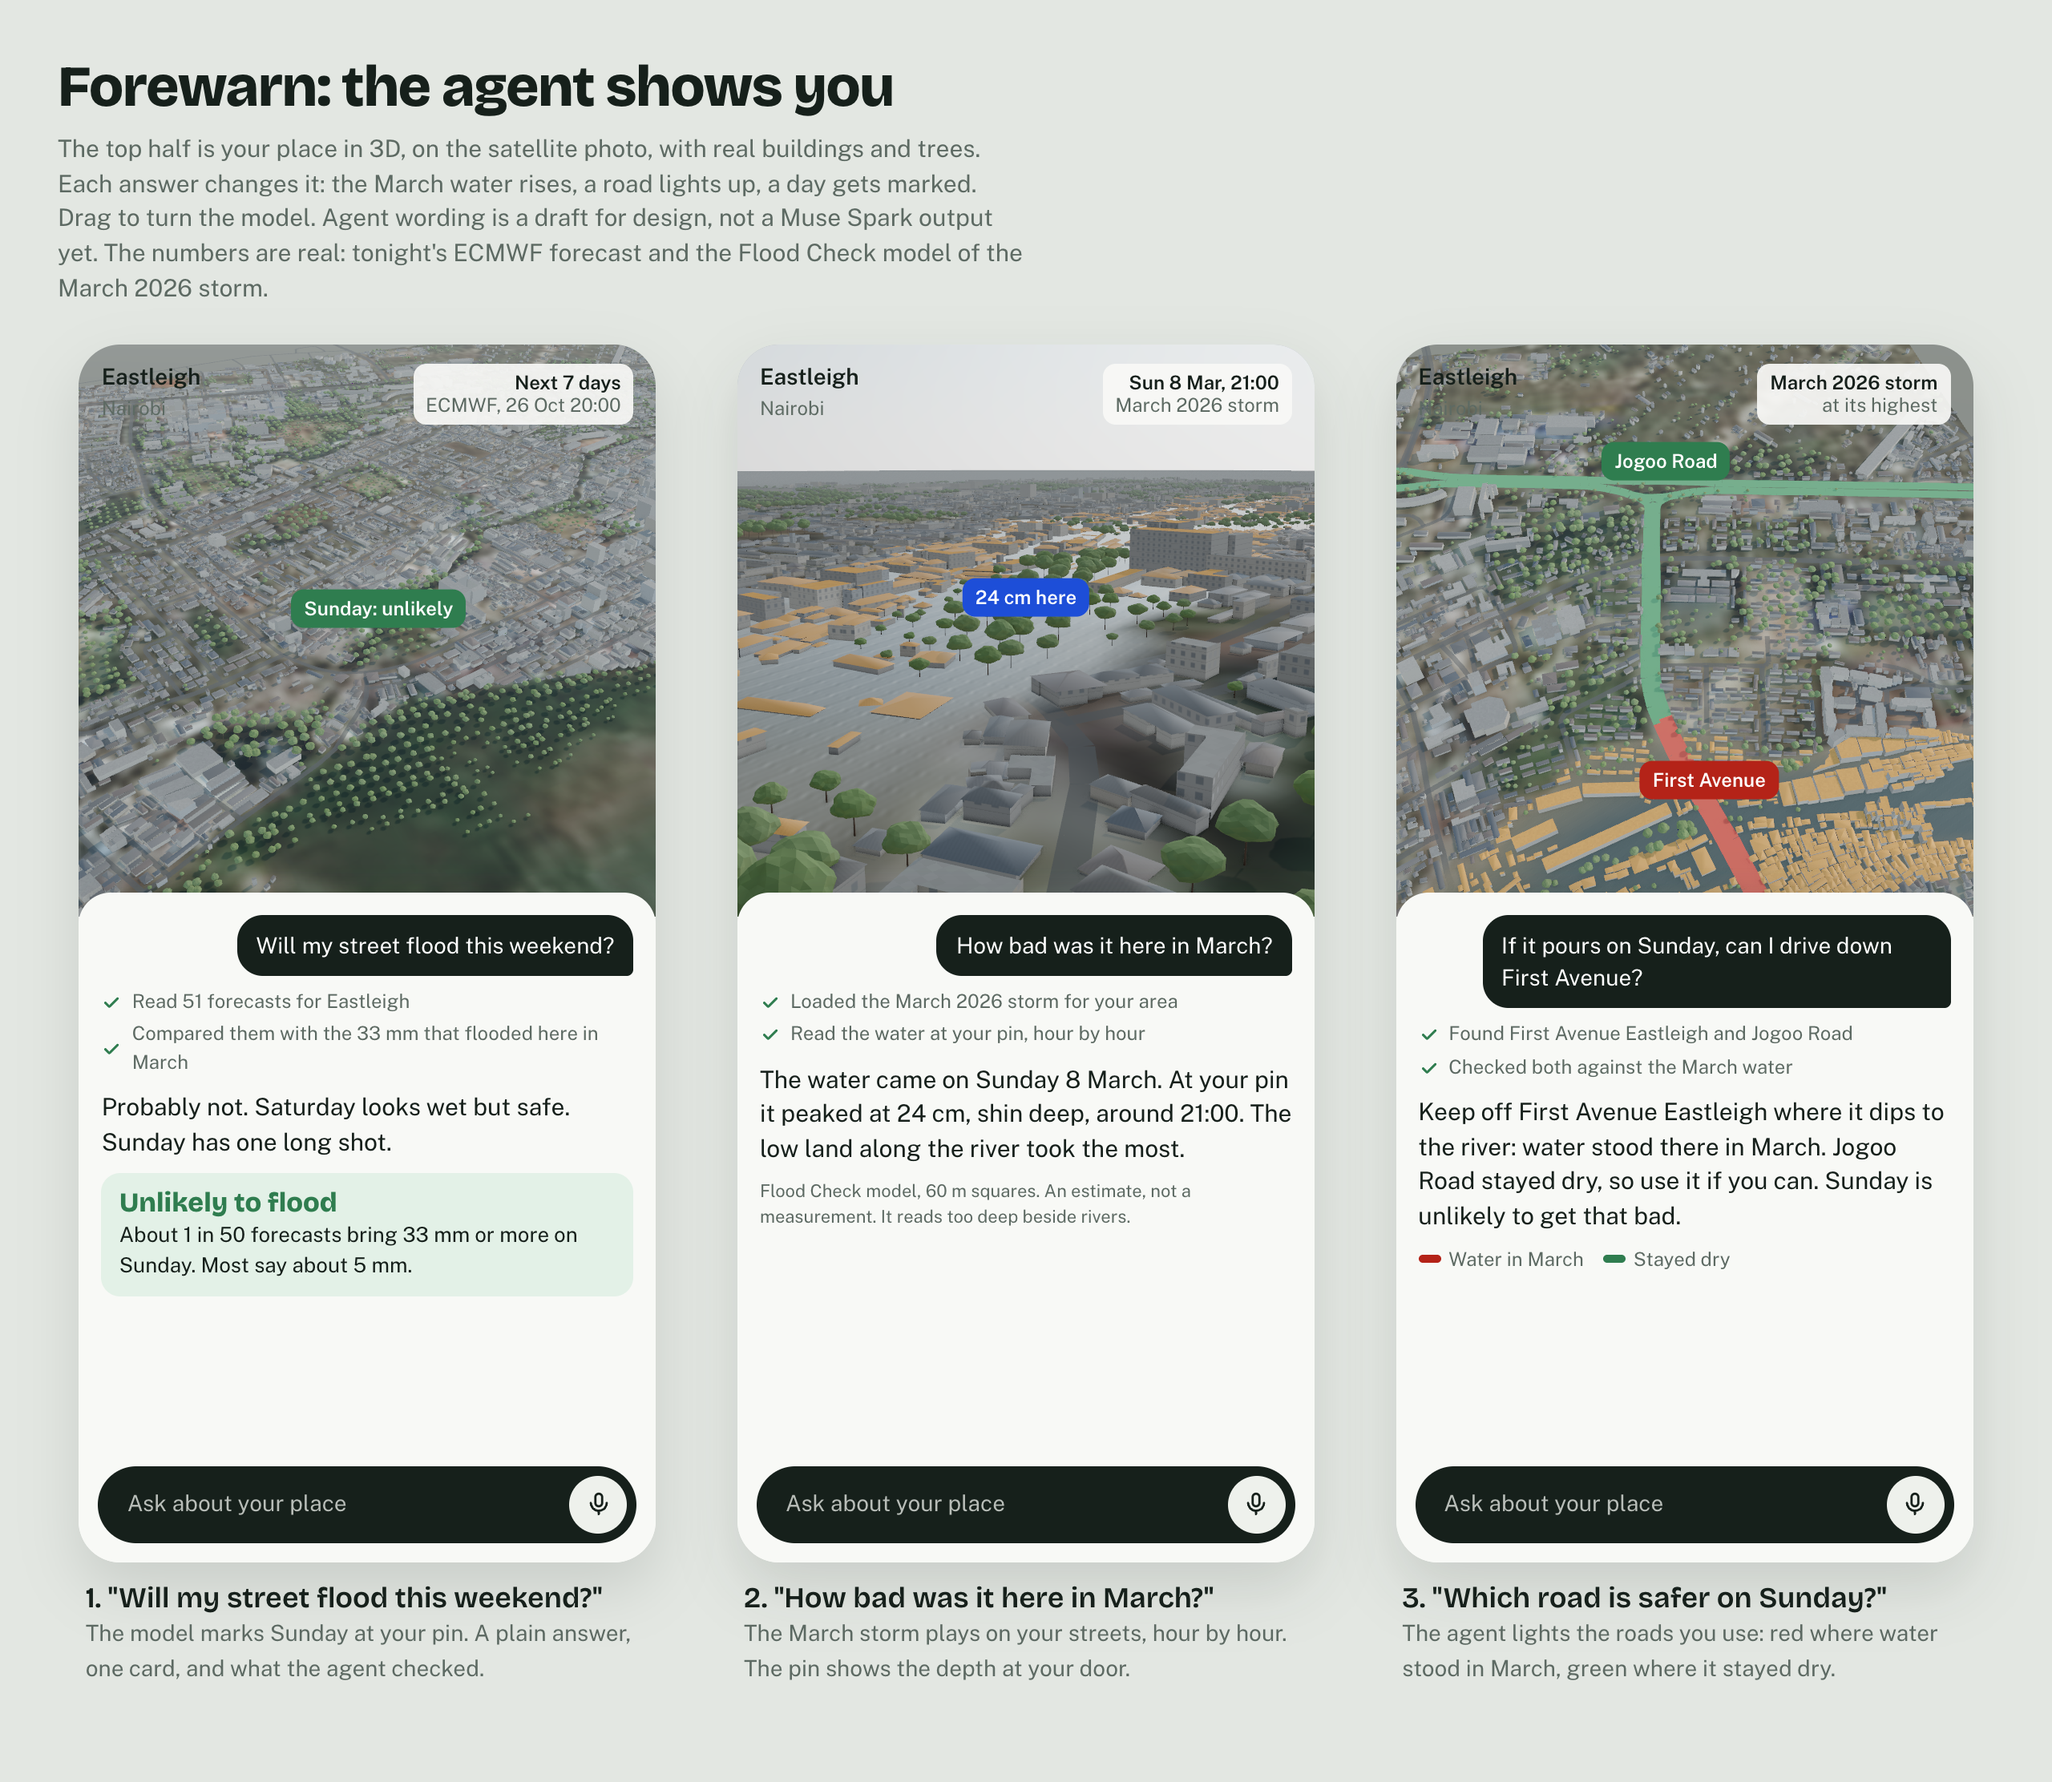
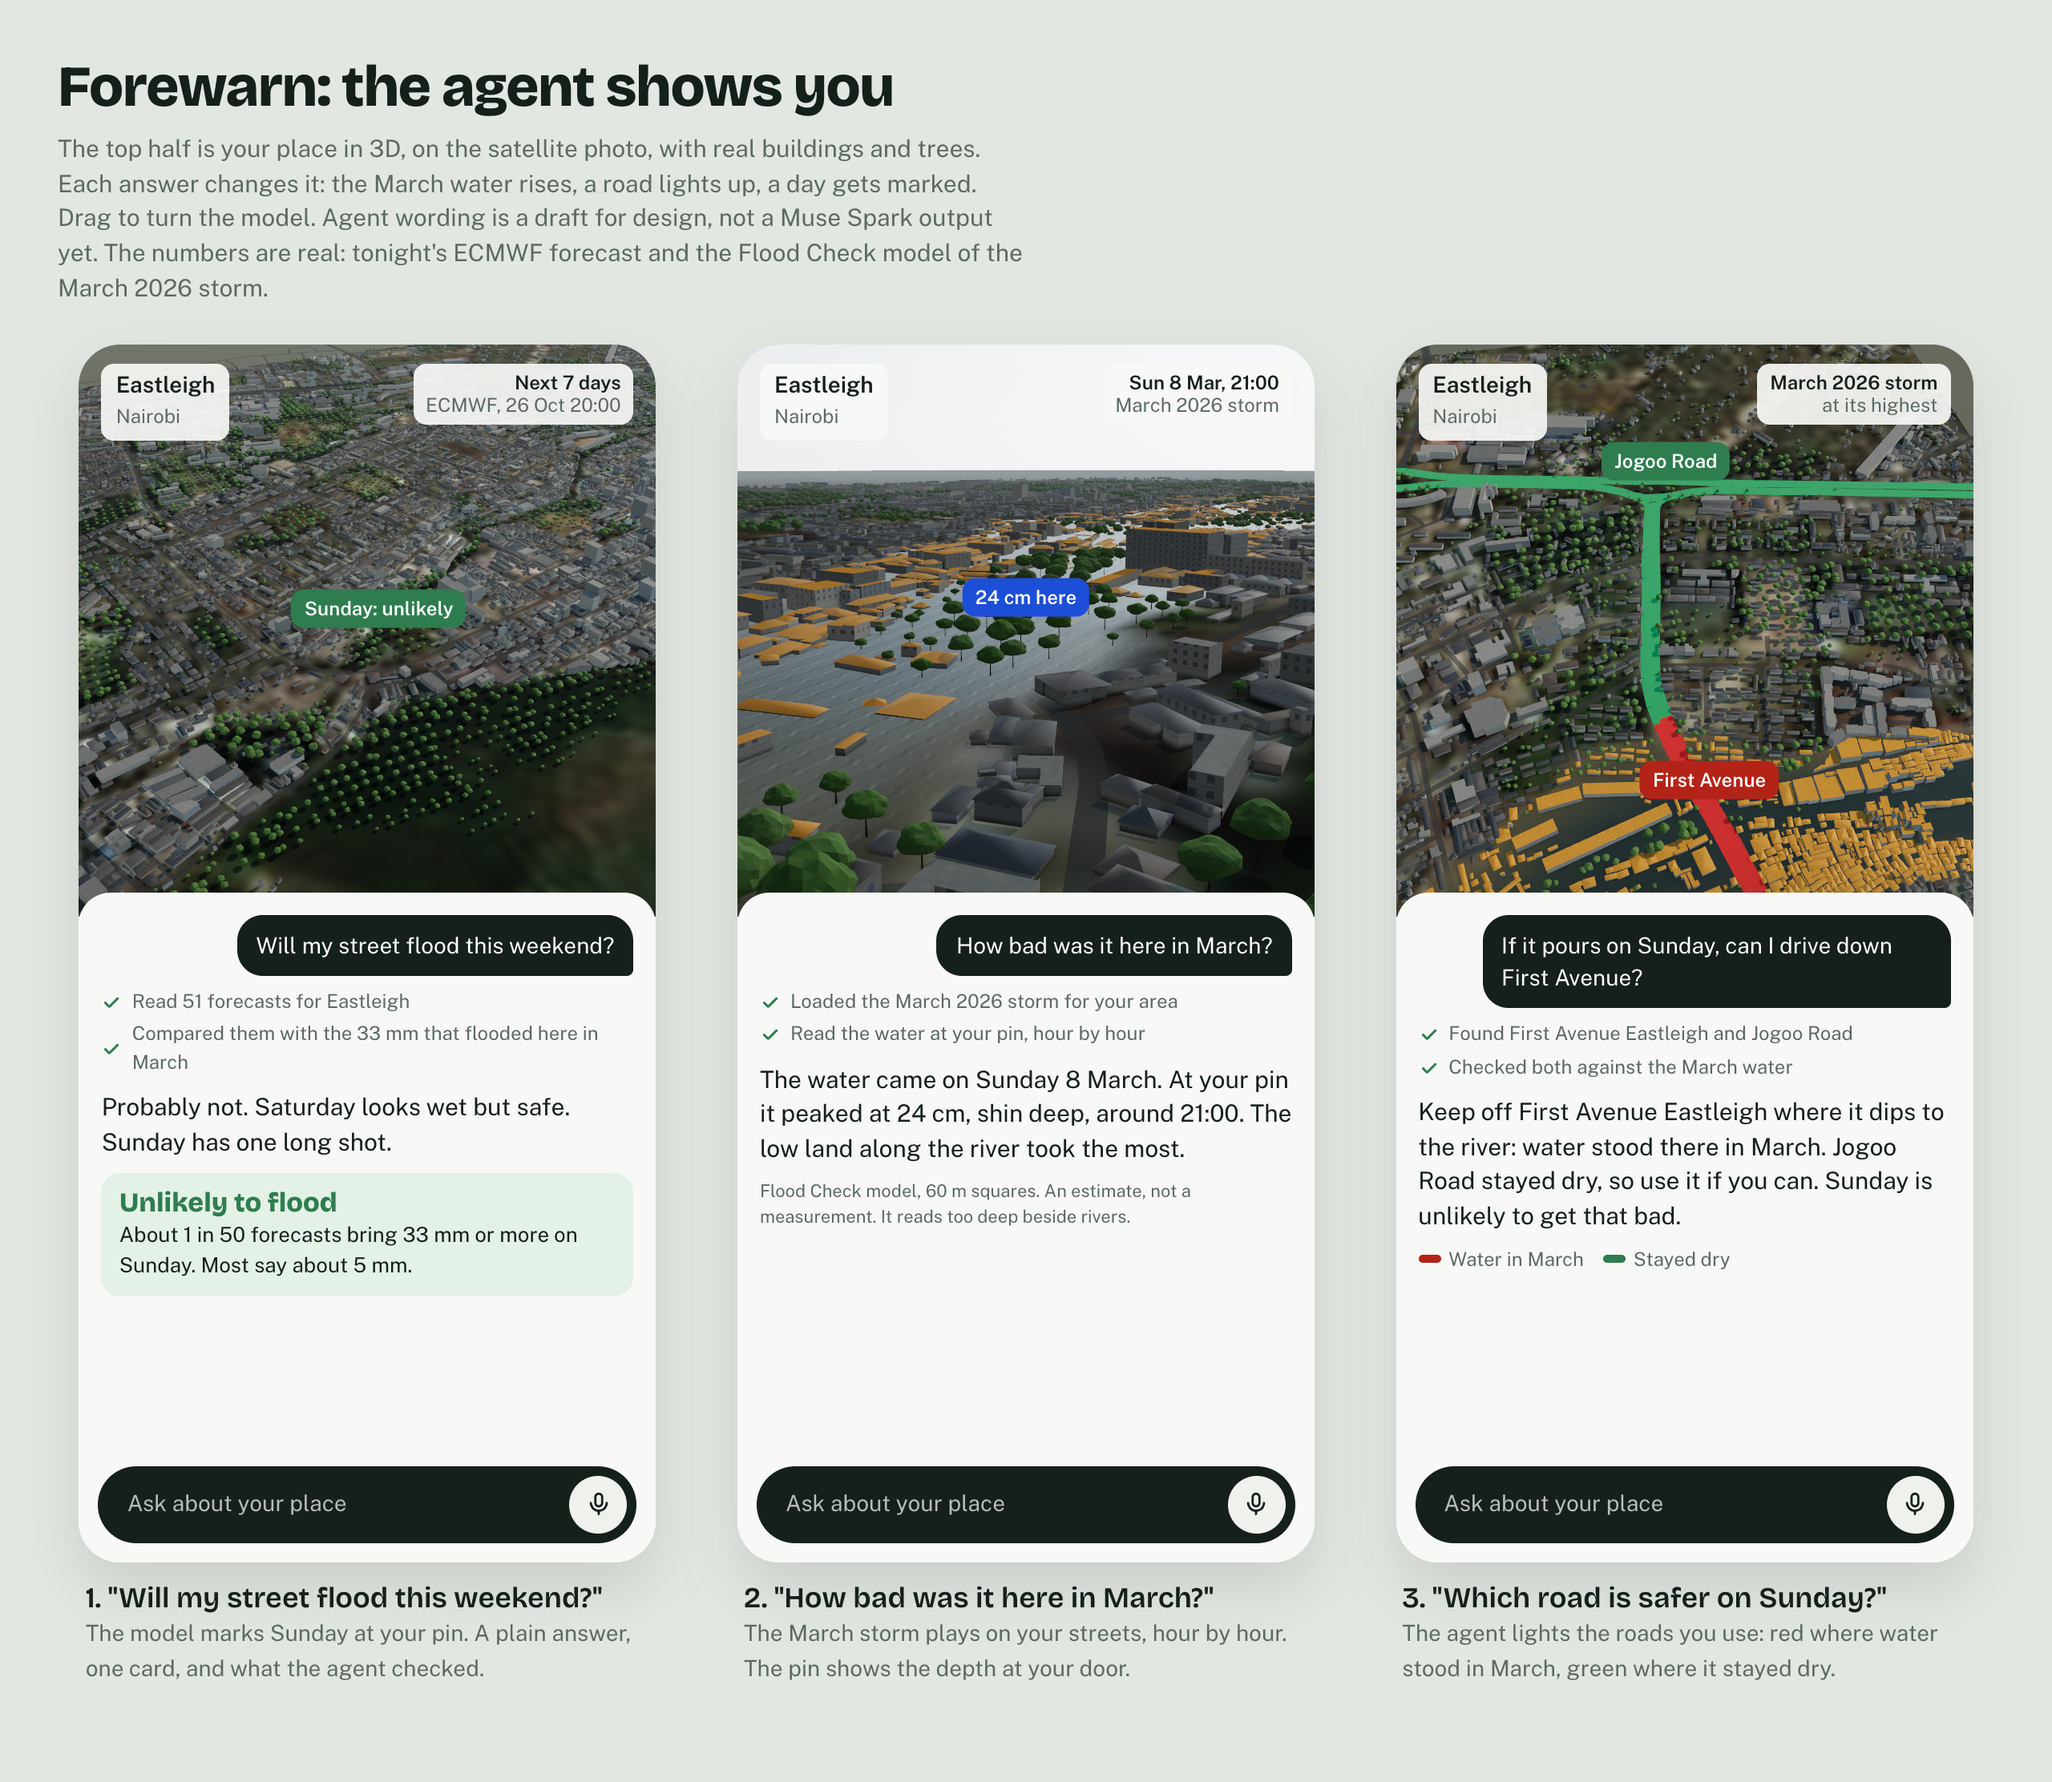
Fix washed-out lighting: dimmer sky fill, softer sun, thinner haze, ACES tone mapping

Changed region(s): [[0.0312, 0.1862, 0.9688, 0.5274]]

diff --git a/design/place3d.js b/design/place3d.js
@@ -3,7 +3,7 @@
 //
 // Light: a physical sky (three's Sky) with the sun where it really is over Nairobi at that
 // hour, the same sky lighting every surface through an environment map, soft sun shadows,
-// screen-space ambient occlusion so walls and streets get contact shadows, and AgX tone mapping.
+// screen-space ambient occlusion so walls and streets get contact shadows, and ACES tone mapping.
 //
 // Loads in stages so a slow phone shows something early: ground and photo, then buildings and
 // roads, then trees and water. `progress(f, text)` reports each stage.
@@ -49,7 +49,7 @@ export async function placeScene({ stage, canvas, base, view = 'street', weather
   const renderer = new THREE.WebGLRenderer({ canvas, antialias: false, powerPreference: 'high-performance' });
   renderer.setPixelRatio(Math.min(devicePixelRatio, 2));
   renderer.shadowMap.enabled = true; renderer.shadowMap.type = THREE.PCFSoftShadowMap;
-  renderer.toneMapping = THREE.AgXToneMapping; renderer.toneMappingExposure = weather === 'storm' ? 0.85 : 1.0;
+  renderer.toneMapping = THREE.ACESFilmicToneMapping; renderer.toneMappingExposure = weather === 'storm' ? 0.8 : 0.9;
   const scene = new THREE.Scene();
   const camera = new THREE.PerspectiveCamera(42, 1, 1, 12000);
 
@@ -64,11 +64,11 @@ export async function placeScene({ stage, canvas, base, view = 'street', weather
   // the environment map is the same sky, so every reflection and the ambient light agree with it
   const envScene = new THREE.Scene(); envScene.add(setSky(new Sky()));
   scene.environment = new THREE.PMREMGenerator(renderer).fromScene(envScene, 0).texture;
-  scene.environmentIntensity = weather === 'storm' ? 0.55 : 0.75;
+  scene.environmentIntensity = weather === 'storm' ? 0.28 : 0.3; // the Sky shader is very bright: keep it a fill, not a second sun
   const haze = weather === 'storm' ? new THREE.Color('#9aa3a8') : new THREE.Color('#c3cfd8');
-  scene.fog = new THREE.FogExp2(haze, weather === 'storm' ? 0.00042 : 0.00016);
+  scene.fog = new THREE.FogExp2(haze, weather === 'storm' ? 0.0003 : 0.0001);
 
-  const sun = new THREE.DirectionalLight('#fff1dc', weather === 'storm' ? 0.9 : 3.0);
+  const sun = new THREE.DirectionalLight('#fff1dc', weather === 'storm' ? 0.8 : 2.4);
   sun.castShadow = true; sun.shadow.mapSize.set(4096, 4096); sun.shadow.bias = -0.0002; sun.shadow.normalBias = 0.6;
   scene.add(sun, sun.target);
 

diff --git a/design/agent-sat.html b/design/agent-sat.html
@@ -29,6 +29,7 @@
   .stage.wet { background: linear-gradient(#aab4b4, #d6dbd6); }
   .stage canvas { position: absolute; inset: 0; width: 100%; height: 100%; display: block; }
   .top { position: absolute; left: 14px; right: 14px; top: 12px; display: flex; justify-content: space-between; align-items: start; pointer-events: none; }
+  .top > div:first-child { background: rgba(248,249,246,.92); padding: 5px 9px; border-radius: 8px; }
   .top b { font: 600 14px/1.2 var(--text); display: block; } .top small { color: var(--muted); font-size: 12px; }
   .clock { font: 600 12px/1.2 var(--text); background: rgba(248,249,246,.92); padding: 5px 8px; border-radius: 8px; text-align: right; }
   .clock span { display: block; font-weight: 400; color: var(--muted); }
